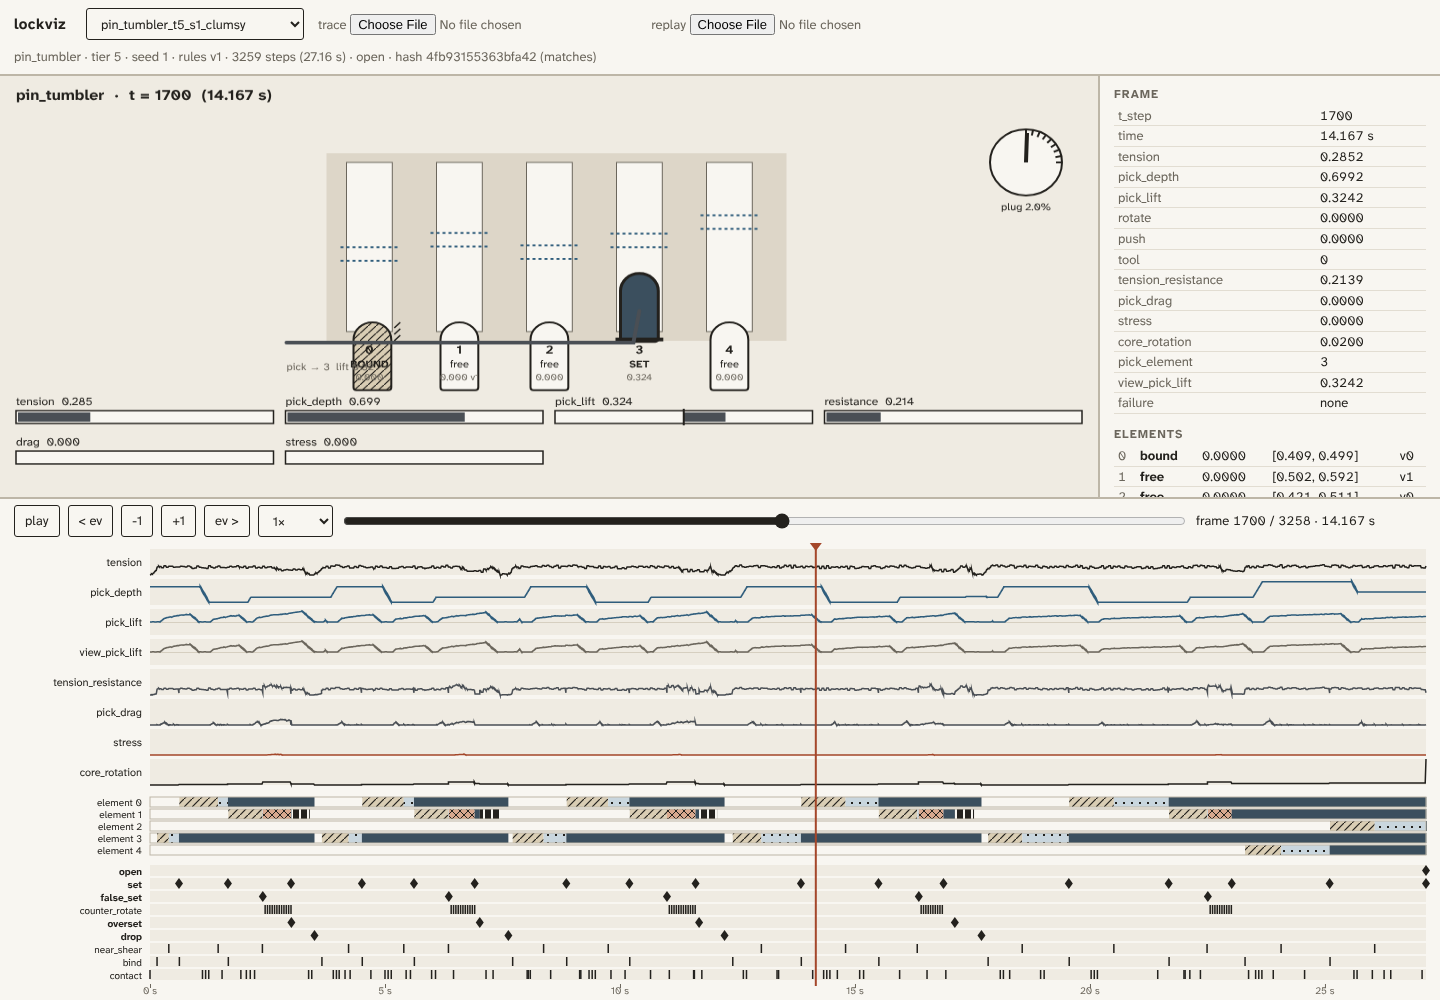
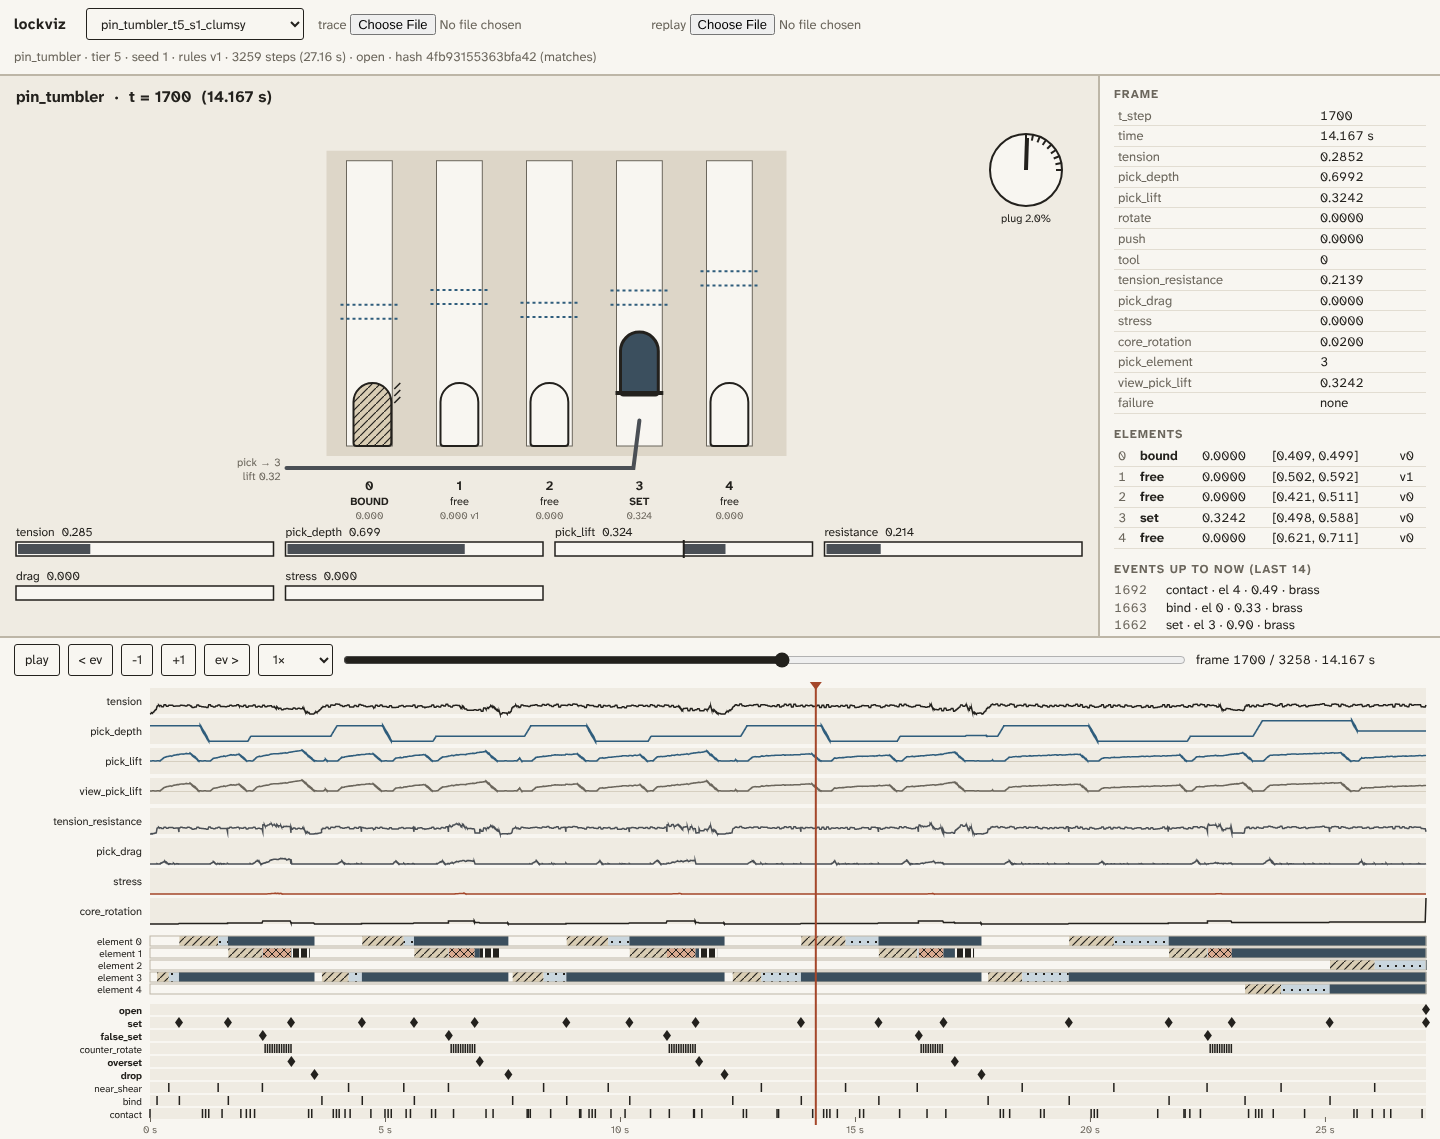
lockviz: replay debug viewer + replay_tool trace subcommand
replay_tool trace <replay> <out> writes lockwright.trace/1 (per-step inputs,
signals, element states/positions, events); same session as play, hash
unchanged, ctest green. mockups/tools/lockviz: per-family schematic, curves,
state strips, event lanes, scrubbing; shot.mjs renders a Playwright screenshot.
Usage documented in lockcore/README.md.

Claude-Session: https://claude.ai/code/session_01VMe8ZZtUr6dRAXPfeAryZ3

diff --git a/mockups/tools/lockviz/lockviz.js b/mockups/tools/lockviz/lockviz.js
@@ -193,24 +193,26 @@ function elementLabel(g, i, st, x, y, extra) {
 function drawLift(g, box, f, kind) {
   const n = T.n, cw = Math.min(90, box.w / (n + 1.5));
   const x0 = box.x + (box.w - cw * n) / 2 + cw * 0.25;
-  const base = box.y + box.h - 70, H = Math.min(box.h - 130, 260);
+  const base = box.y + box.h - 70, H = Math.min((box.h - 110) * 0.55, 240);
   // plug / shell schematic: the shear band is each element's set window.
-  g.fillStyle = '#ddd6c8'; g.fillRect(x0 - 20, base - H - 20, cw * n + 10, H + 40);
+  g.fillStyle = '#ddd6c8'; g.fillRect(x0 - 20, base - H * 1.75 - 20, cw * n + 10, H * 1.75 + 30);
   for (let i = 0; i < n; i++) {
     const cx = x0 + i * cw, ew = cw * 0.42;
     const [lo, hi, variant] = T.elements[i];
     const st = elState(f, i), p = elPos(f, i);
-    g.fillStyle = '#f8f6f1'; g.fillRect(cx, base - H - 10, ew + 8, H + 20);   // chamber
-    g.strokeStyle = '#6b665c'; g.lineWidth = 1; g.strokeRect(cx, base - H - 10, ew + 8, H + 20);
+    g.fillStyle = '#f8f6f1'; g.fillRect(cx, base - H * 1.75 - 10, ew + 8, H * 1.75 + 10);   // chamber
+    g.strokeStyle = '#6b665c'; g.lineWidth = 1; g.strokeRect(cx, base - H * 1.75 - 10, ew + 8, H * 1.75 + 10);
     // set window: two engraved lines + wedge
-    const ylo = base - (lo / Q) * H, yhi = base - (hi / Q) * H;
+    const len = kind === 'wafer' ? 34 : Math.max(40, H * 0.4);
+    // window lines mark where the element's top edge must sit (position in [lo, hi])
+    const ylo = base - len - (lo / Q) * H, yhi = base - len - (hi / Q) * H;
     g.strokeStyle = '#2f5d7c'; g.lineWidth = 2; g.setLineDash([3, 3]);
     g.beginPath(); g.moveTo(cx - 6, ylo); g.lineTo(cx + ew + 14, ylo); g.moveTo(cx - 6, yhi); g.lineTo(cx + ew + 14, yhi); g.stroke();
     g.setLineDash([]);
     // element: top edge at the current position
-    const top = base - p * H, len = kind === 'wafer' ? 34 : Math.max(40, H * 0.45);
+    const top = base - len - p * H;
     body(g, st, cx + 4, top, ew, len, kind);
-    elementLabel(g, i, st, cx + ew / 2 + 4, base + 34, `${p.toFixed(3)}${variant ? ' v' + variant : ''}`);
+    elementLabel(g, i, st, cx + ew / 2 + 4, base + 44, `${p.toFixed(3)}${variant ? ' v' + variant : ''}`);
   }
   // shear line across the housing (nominal, mid of all windows)
   g.strokeStyle = '#23211d'; g.lineWidth = 2;
@@ -224,11 +226,12 @@ function drawPick(g, x0, cw, base, H, f) {
   const lift = f[T.col.view_pick_lift] / Q;
   const depth = val(f, 'pick_depth');
   const tipX = pe >= 0 ? x0 + pe * cw + cw * 0.21 + 4 : x0 + depth * cw * T.n;
-  const tipY = base + 14 - lift * H * 0.5;
+  const tipY = base - lift * H * 0.5;
   g.strokeStyle = '#4a4f55'; g.lineWidth = 4; g.lineCap = 'round';
   g.beginPath(); g.moveTo(x0 - 60, base + 22); g.lineTo(tipX - 6, base + 22); g.lineTo(tipX, tipY); g.stroke();
   g.lineCap = 'butt';
-  text(g, `pick → ${pe}  lift ${lift.toFixed(2)}`, x0 - 60, base + 52, { size: 11, color: '#6b665c' });
+  text(g, `pick → ${pe}`, x0 - 66, base + 20, { size: 11, color: '#6b665c', align: 'right' });
+  text(g, `lift ${lift.toFixed(2)}`, x0 - 66, base + 34, { size: 11, color: '#6b665c', align: 'right' });
 }
 
 // Core rotation dial (fraction of the opening rotation) + tension wrench.
@@ -252,7 +255,7 @@ function drawCore(g, box, f, what) {
 function drawLevers(g, box, f) {
   const n = T.n, cw = Math.min(90, box.w / (n + 1.5));
   const x0 = box.x + (box.w - cw * n) / 2;
-  const base = box.y + box.h - 60, H = Math.min(box.h - 150, 220), plateH = H + 40;
+  const base = box.y + box.h - 84, H = Math.min(box.h - 170, 220), plateH = H + 40;
   const stumpY = base - H * 0.5 - 40;
   for (let i = 0; i < n; i++) {
     const cx = x0 + i * cw, ew = cw * 0.7;
@@ -268,14 +271,12 @@ function drawLevers(g, box, f) {
     g.strokeRect(cx, yb - plateH, ew, plateH);
     g.setLineDash([]);
     // gate slot: where the stump sits when p is inside [lo, hi]
-    const slotTop = stumpY - (hi / Q - p) * H * 0.5 * -1;
     const sTop = stumpY + (p - hi / Q) * H * 0.5, sBot = stumpY + (p - lo / Q) * H * 0.5;
     g.fillStyle = '#efebe2'; g.fillRect(cx + ew * 0.3, sTop - 6, ew * 0.4, sBot - sTop + 12);
     g.strokeRect(cx + ew * 0.3, sTop - 6, ew * 0.4, sBot - sTop + 12);
     if (st === 'false_set') { g.beginPath(); g.moveTo(cx, yb - plateH); g.lineTo(cx + ew, yb); g.moveTo(cx + ew, yb - plateH); g.lineTo(cx, yb); g.stroke(); }
-    void slotTop;
     g.restore();
-    elementLabel(g, i, st, cx + ew / 2, base + 22, `${p.toFixed(3)}${falseGates ? ' fg' + falseGates : ''}`);
+    elementLabel(g, i, st, cx + ew / 2, base + 50, `${p.toFixed(3)}${falseGates ? ' fg' + falseGates : ''}`);
   }
   // bolt stump: a fixed bar across all levers
   g.fillStyle = '#4a4f55';
@@ -452,7 +453,7 @@ function drawTimeline() {
   const yAx = TL.height - 6;
   for (let s = 0; s <= N / T.step_hz; s += N / T.step_hz > 20 ? 5 : 1) {
     const x = X(s * T.step_hz);
-    g.fillStyle = '#6b665c'; g.fillRect(x, yAx - 10, 1, 4);
+    g.fillStyle = '#6b665c'; g.fillRect(x, yAx - 16, 1, 5);
     text(g, s + ' s', x, yAx, { align: 'center', size: 10, color: '#6b665c' });
   }
   // cursor

diff --git a/mockups/tools/lockviz/index.html b/mockups/tools/lockviz/index.html
@@ -13,7 +13,7 @@
   * { box-sizing: border-box; }
   html, body { margin: 0; height: 100%; background: var(--paper); color: var(--ink);
     font: 13px/1.35 'Atkinson', sans-serif; }
-  body { display: grid; grid-template-rows: auto 1fr auto; height: 100vh; }
+  body { display: grid; grid-template-rows: auto auto auto; min-height: 100vh; }
   header { display: flex; flex-wrap: wrap; gap: 8px 14px; align-items: center; padding: 8px 14px;
     border-bottom: 2px solid var(--rule); background: var(--panel); }
   header h1 { font-size: 15px; margin: 0 6px 0 0; letter-spacing: .02em; }
@@ -23,7 +23,7 @@
     color: var(--ink); border-radius: 3px; cursor: pointer; }
   button:focus-visible, select:focus-visible { outline: 3px solid var(--blue); outline-offset: 1px; }
   label.file { color: var(--muted); }
-  main { display: grid; grid-template-columns: minmax(420px, 1fr) 340px; min-height: 0; }
+  main { display: grid; grid-template-columns: minmax(420px, 1fr) 340px; height: 560px; }
   #schematicWrap { position: relative; min-height: 0; border-right: 2px solid var(--rule); }
   #schematic { position: absolute; inset: 0; width: 100%; height: 100%; }
   aside { overflow: auto; padding: 10px 14px; background: var(--panel); }

diff --git a/lockcore/README.md b/lockcore/README.md
@@ -32,7 +32,32 @@ lockcore/build/verify_seeds [--seeds N] [--family warded] [--tier 2] [--replays 
 lockcore/build/replay_tool lock pin_tumbler 4 123             # print a generated lockwright.lock/1
 lockcore/build/replay_tool record wafer 2 77 out.replay.json  # record the bot's run [--clumsy|--feel]
 lockcore/build/replay_tool play lockcore/tests/golden/wafer_t2_s77.replay.json
+lockcore/build/replay_tool trace lockcore/tests/golden/wafer_t2_s77.replay.json out.trace.json  # per-step trace
 ```
+
+### Replay debugger (lockviz)
+
+`replay_tool trace <file.replay.json> <out.trace.json>` plays a replay exactly like `play`
+(same session, same hash; exit 1 on mismatch) and writes `lockwright.trace/1`: one flat row per
+step (`frame_fields` = inputs, continuous signals, stress, core rotation, pick element, failure,
+then `state, position` per element), every event `[t_step, kind, sub, element, intensity,
+material]`, name tables and the element windows. All values stay Q16 integers (65536 = 1.0).
+
+`mockups/tools/lockviz/` is a plain HTML+JS viewer for it (design/debug tool, not game code):
+per-family schematic (pins/wafers, levers + stump, wards + key bit + bolt, rings + reading line),
+input and signal curves, per-element state strips (pattern per state), event lanes, scrubbing
+(drag the timeline, arrows, Shift+arrows ×10, `[`/`]` previous/next event, space = play).
+
+```bash
+# regenerate traces for all golden replays
+for f in lockcore/tests/golden/*.replay.json; do b=$(basename $f .replay.json); \
+  lockcore/build/replay_tool trace $f mockups/tools/lockviz/traces/$b.trace.json; done
+python3 -m http.server -d . 8000   # open http://localhost:8000/mockups/tools/lockviz/?trace=wafer_t2_s77&t=400
+node mockups/tools/lockviz/shot.mjs [trace-name] [frame|end] [out.png]   # Playwright screenshot
+```
+
+A new trace name must also be added to `mockups/tools/lockviz/traces/index.json`; any other
+trace/replay can be opened with the file pickers.
 
 Run a single test group: `lockcore/build/lockcore_tests pin:` (substring filter);
 `lockcore/build/lockcore_tests fuzz` runs only the fuzz test (ctest `lockcore_fuzz`; under
